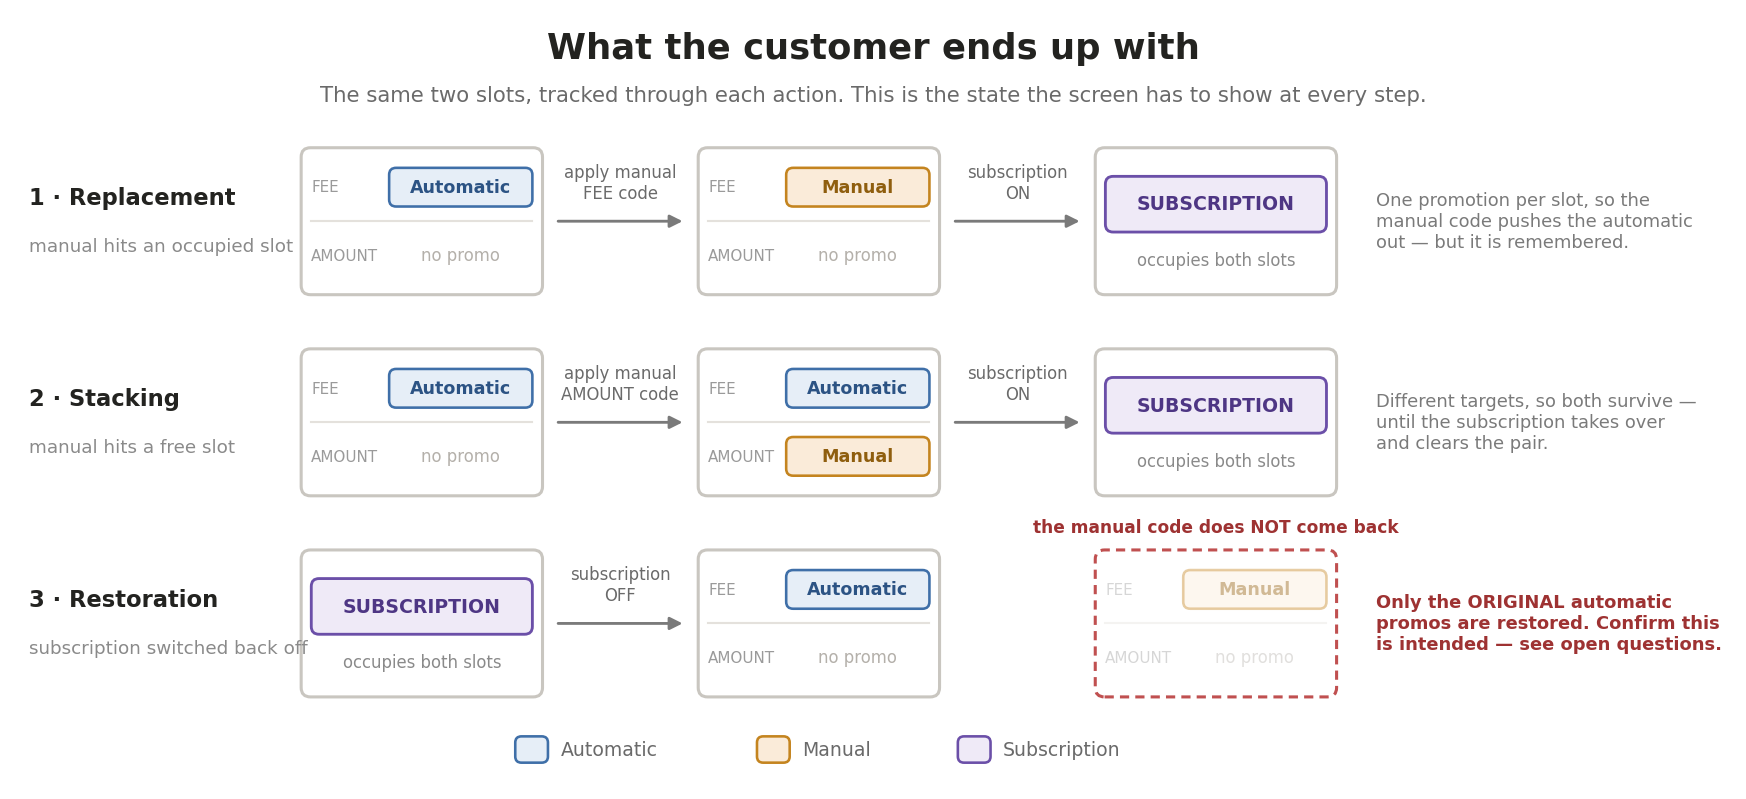
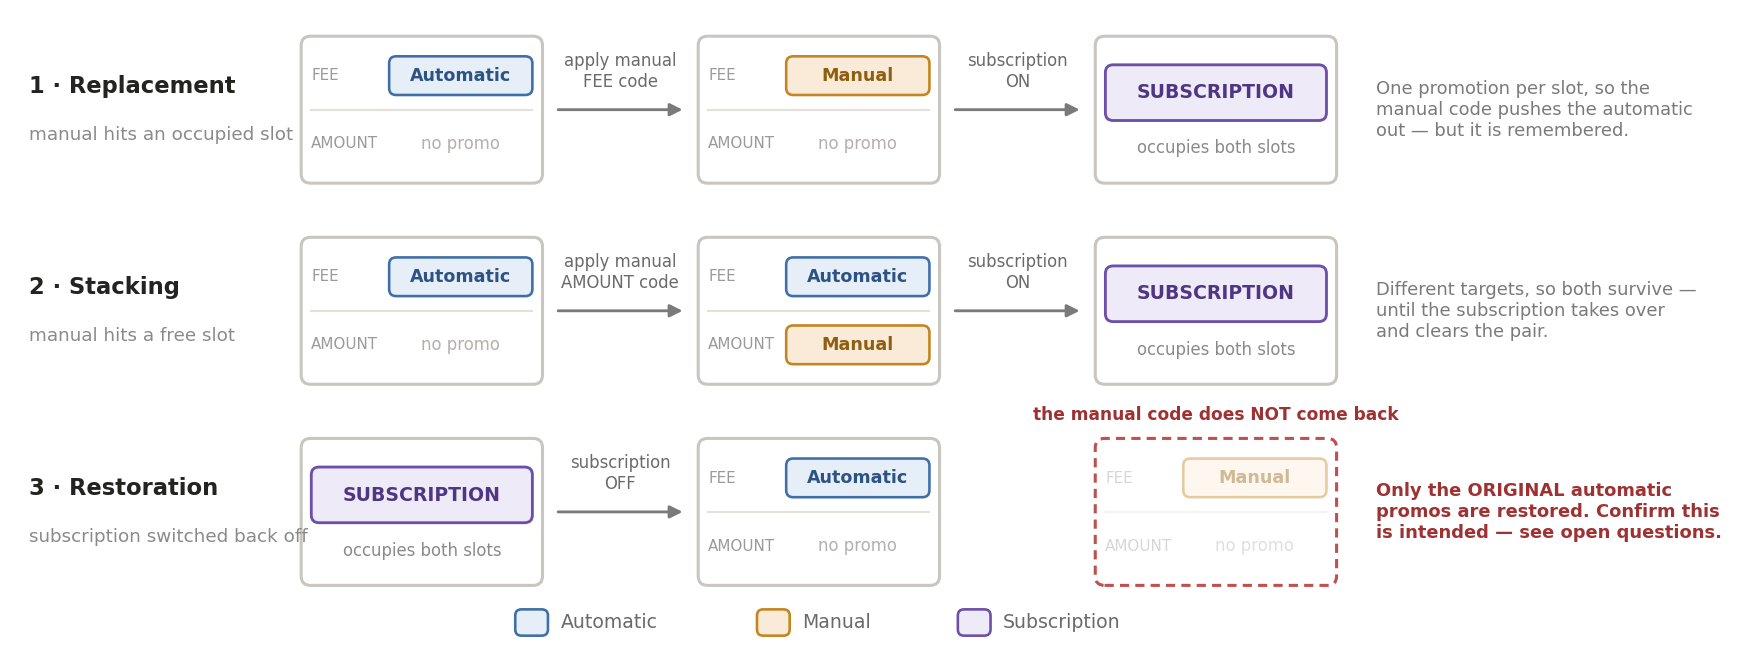
Trim promotion one-pager to a single page
Drop the in-figure titles (the document headings carry them), shorten every
matrix cell to one line, and tighten the open questions. Also git-ignore
credentials.json and token.json, which were never meant to be tracked.

diff --git a/create_promo_interaction_onepager.py b/create_promo_interaction_onepager.py
@@ -41,7 +41,7 @@ TITLE = "IMTU — How Promotions Interact in a Transaction"
 
 MARGIN_PT = 40
 PAGE_W = 612 - 2 * MARGIN_PT          # 532pt of usable width
-IMG_W = 505.0                          # figures sit just inside the text block
+IMG_W = 490.0                          # figures sit just inside the text block
 
 # --------------------------------------------------------------- figures ----
 
@@ -54,15 +54,12 @@ IMAGES = {
 # Read a cell as: this Fee-slot promotion together with this Amount-slot one.
 
 MATRIX = [
-    ["Fee slot ↓   Amount slot →", "Automatic", "Manual", "Subscription", "No promo"],
-    ["Automatic", "✓  two automatics", "✓  auto fee + manual amount",
-     "✗  exclusive", "✓  fee discount only"],
-    ["Manual", "✓  manual fee + auto amount", "?  two manual codes at once",
-     "✗  exclusive", "✓  manual fee only"],
-    ["Subscription", "✗  exclusive", "✗  exclusive",
-     "✓  the only promotion — replaces both slots", "✗  exclusive"],
-    ["No promo", "✓  auto amount only", "✓  manual amount only",
-     "✗  exclusive", "—  no promotion"],
+    ["Fee slot ↓   Amount slot →", "Automatic", "Manual", "Subscription", "None"],
+    ["Automatic", "✓  both apply", "✓  both apply", "✗  not possible", "✓  fee only"],
+    ["Manual", "✓  both apply", "?  needs a decision", "✗  not possible", "✓  fee only"],
+    ["Subscription", "✗  not possible", "✗  not possible",
+     "✓  replaces both slots", "✗  not possible"],
+    ["None", "✓  amount only", "✓  amount only", "✗  not possible", "—  no promotion"],
 ]
 
 TABLES = [("MATRIX", MATRIX)]
@@ -85,38 +82,33 @@ BLOCKS = [
             "Joao Tanaka  ·  Context: DCS-2846"),
 
     ("h2", "The model"),
-    ("p", "A transaction has two promotion slots — Fee and Top-up amount — and each "
-          "slot holds at most one promotion. Automatic and manual promotions compete "
-          "for those slots. A subscription promotion is not a slot-filler: it takes "
-          "over the whole transaction. Colours are fixed throughout this page — "
-          "blue is automatic, amber is manual, violet is subscription."),
+    ("p", "Two promotion slots per transaction — Fee and Top-up amount — each holding "
+          "one promotion at most. Automatic and manual promos compete for slots; a "
+          "subscription is not a slot-filler, it takes the whole transaction. "
+          "Blue = automatic, amber = manual, violet = subscription."),
 
     ("img", "flow"),
 
     ("h2", "Every combination"),
     ("table", "MATRIX"),
-    ("cap", "✓ valid  ·  ✗ not possible  ·  ? needs a product decision. "
-            "Each cell is one transaction holding both promotions."),
 
     ("h2", "Three journeys to design for"),
     ("img", "examples"),
 
     ("h2", "Open questions for product"),
-    ("b", "Two manual codes  —  the rules allow two promotions on different targets, "
-          "but only ever illustrate automatic + manual. Can a manual fee code and a "
-          "manual amount code apply at the same time?"),
-    ("b", "Restoration scope  —  switching the subscription off restores the original "
-          "automatic promos, but not the manual code. Intended? And is the customer "
-          "told what came back?"),
-    ("b", "Manual code while a subscription is on  —  is the field disabled, hidden, "
-          "or does entering a code silently switch the subscription off?"),
-    ("b", "A manual promo worth less  —  a code can replace a larger automatic "
-          "discount. Do we warn, or let the customer lose value silently?"),
-    ("b", "Automatic no longer eligible  —  if it expired during the session, what "
-          "fills the slot when the subscription is switched off?"),
+    ("b", "Two manual codes  —  can a manual fee code and a manual amount code apply "
+          "at the same time?"),
+    ("b", "Restoration  —  the manual code does not return with the automatics. "
+          "Intended? Is the customer told?"),
+    ("b", "Manual code while a subscription is on  —  field disabled, hidden, or does "
+          "it switch the subscription off?"),
+    ("b", "A weaker manual promo  —  a code can replace a bigger automatic discount. "
+          "Do we warn before value is lost?"),
+    ("b", "Automatic expired mid-session  —  what fills the slot when the subscription "
+          "is switched off?"),
 ]
 
-SIZE_MAP = {"h1": 15, "h2": 10.5, "p": 9, "b": 9, "cap": 7.5}
+SIZE_MAP = {"h1": 15, "h2": 10.5, "p": 9, "b": 8.5, "cap": 7.5}
 STYLE_MAP = {"h1": "HEADING_1", "h2": "HEADING_2",
              "p": "NORMAL_TEXT", "b": "NORMAL_TEXT", "cap": "NORMAL_TEXT"}
 
@@ -154,7 +146,7 @@ def build_requests(blocks):
         line = text + "\n"
         reqs.append({"insertText": {"location": {"index": cur}, "text": line}})
         # Named styles ship generous space-above/below; a one-pager cannot afford it.
-        above, below = (7, 2) if kind == "h2" else (0, 2)
+        above, below = (5, 2) if kind == "h2" else (0, 2)
         para = {"namedStyleType": STYLE_MAP[kind],
                 "spaceAbove": {"magnitude": above, "unit": "PT"},
                 "spaceBelow": {"magnitude": below, "unit": "PT"},

diff --git a/generate_promo_interaction_diagrams.py b/generate_promo_interaction_diagrams.py
@@ -104,16 +104,13 @@ def legend_chips(ax, y, extra=None):
                 fontsize=7.8, color="#9A9A9A", zorder=3)
 
 
-def canvas(h, title, subtitle):
+def canvas(h):
+    """No in-figure title - the document heading above each figure carries it."""
     fig_w = 13.0
     fig, ax = plt.subplots(figsize=(fig_w, fig_w * h / XMAX))
     ax.set_xlim(0, XMAX)
     ax.set_ylim(0, h)
     ax.axis("off")
-    ax.text(XMAX / 2, h - 0.42, title, ha="center", va="center",
-            fontsize=15, fontweight="bold", color="#232320")
-    ax.text(XMAX / 2, h - 1.02, subtitle, ha="center", va="center",
-            fontsize=9.0, color="#6A6A6A")
     return fig, ax
 
 
@@ -126,14 +123,9 @@ def save(fig, path):
 # ------------------------------------------------------------------ fig 1 ---
 
 def fig_flow():
-    H = 10.4
-    fig, ax = canvas(
-        H,
-        "How the three promotion types interact",
-        "A transaction has two promotion slots - Fee and Top-up amount. "
-        "Each slot holds one promotion. A subscription takes the whole transaction.")
-
-    y = 5.5
+    H = 8.85
+    fig, ax = canvas(H)
+    y = 5.20
 
     box(ax, 2.35, y, 3.9, 1.35, "Transaction opens",
         "two slots: Fee · Amount", GRAY)
@@ -173,7 +165,7 @@ def fig_flow():
     elbow_return(ax, (20.35, y - 3.10), 1.45, (7.15, y - 0.68),
                  "toggle OFF  →  the original AUTOMATIC promos are restored")
 
-    legend_chips(ax, 0.62,
+    legend_chips(ax, 0.72,
                  "Only one promotion per target. Two automatic promos may coexist "
                  "when one is on Fee and the other on Amount.")
     return fig
@@ -238,16 +230,12 @@ def note(ax, cy, text, warn=False):
 
 
 def fig_examples():
-    H = 9.9
-    fig, ax = canvas(
-        H,
-        "What the customer ends up with",
-        "The same two slots, tracked through each action. "
-        "This is the state the screen has to show at every step.")
+    H = 8.25
+    fig, ax = canvas(H)
 
     x1, x2, x3 = 5.2, 10.3, 15.4
     gap = CARD_W / 2 + 0.14
-    ra, rb, rc = 7.25, 4.65, 2.05
+    ra, rb, rc = 7.05, 4.45, 1.85
 
     def step(cy, xa, xb, label):
         arrow(ax, (xa + gap, cy), (xb - gap, cy), label=label, ldy=0.50, lsize=7.0)
